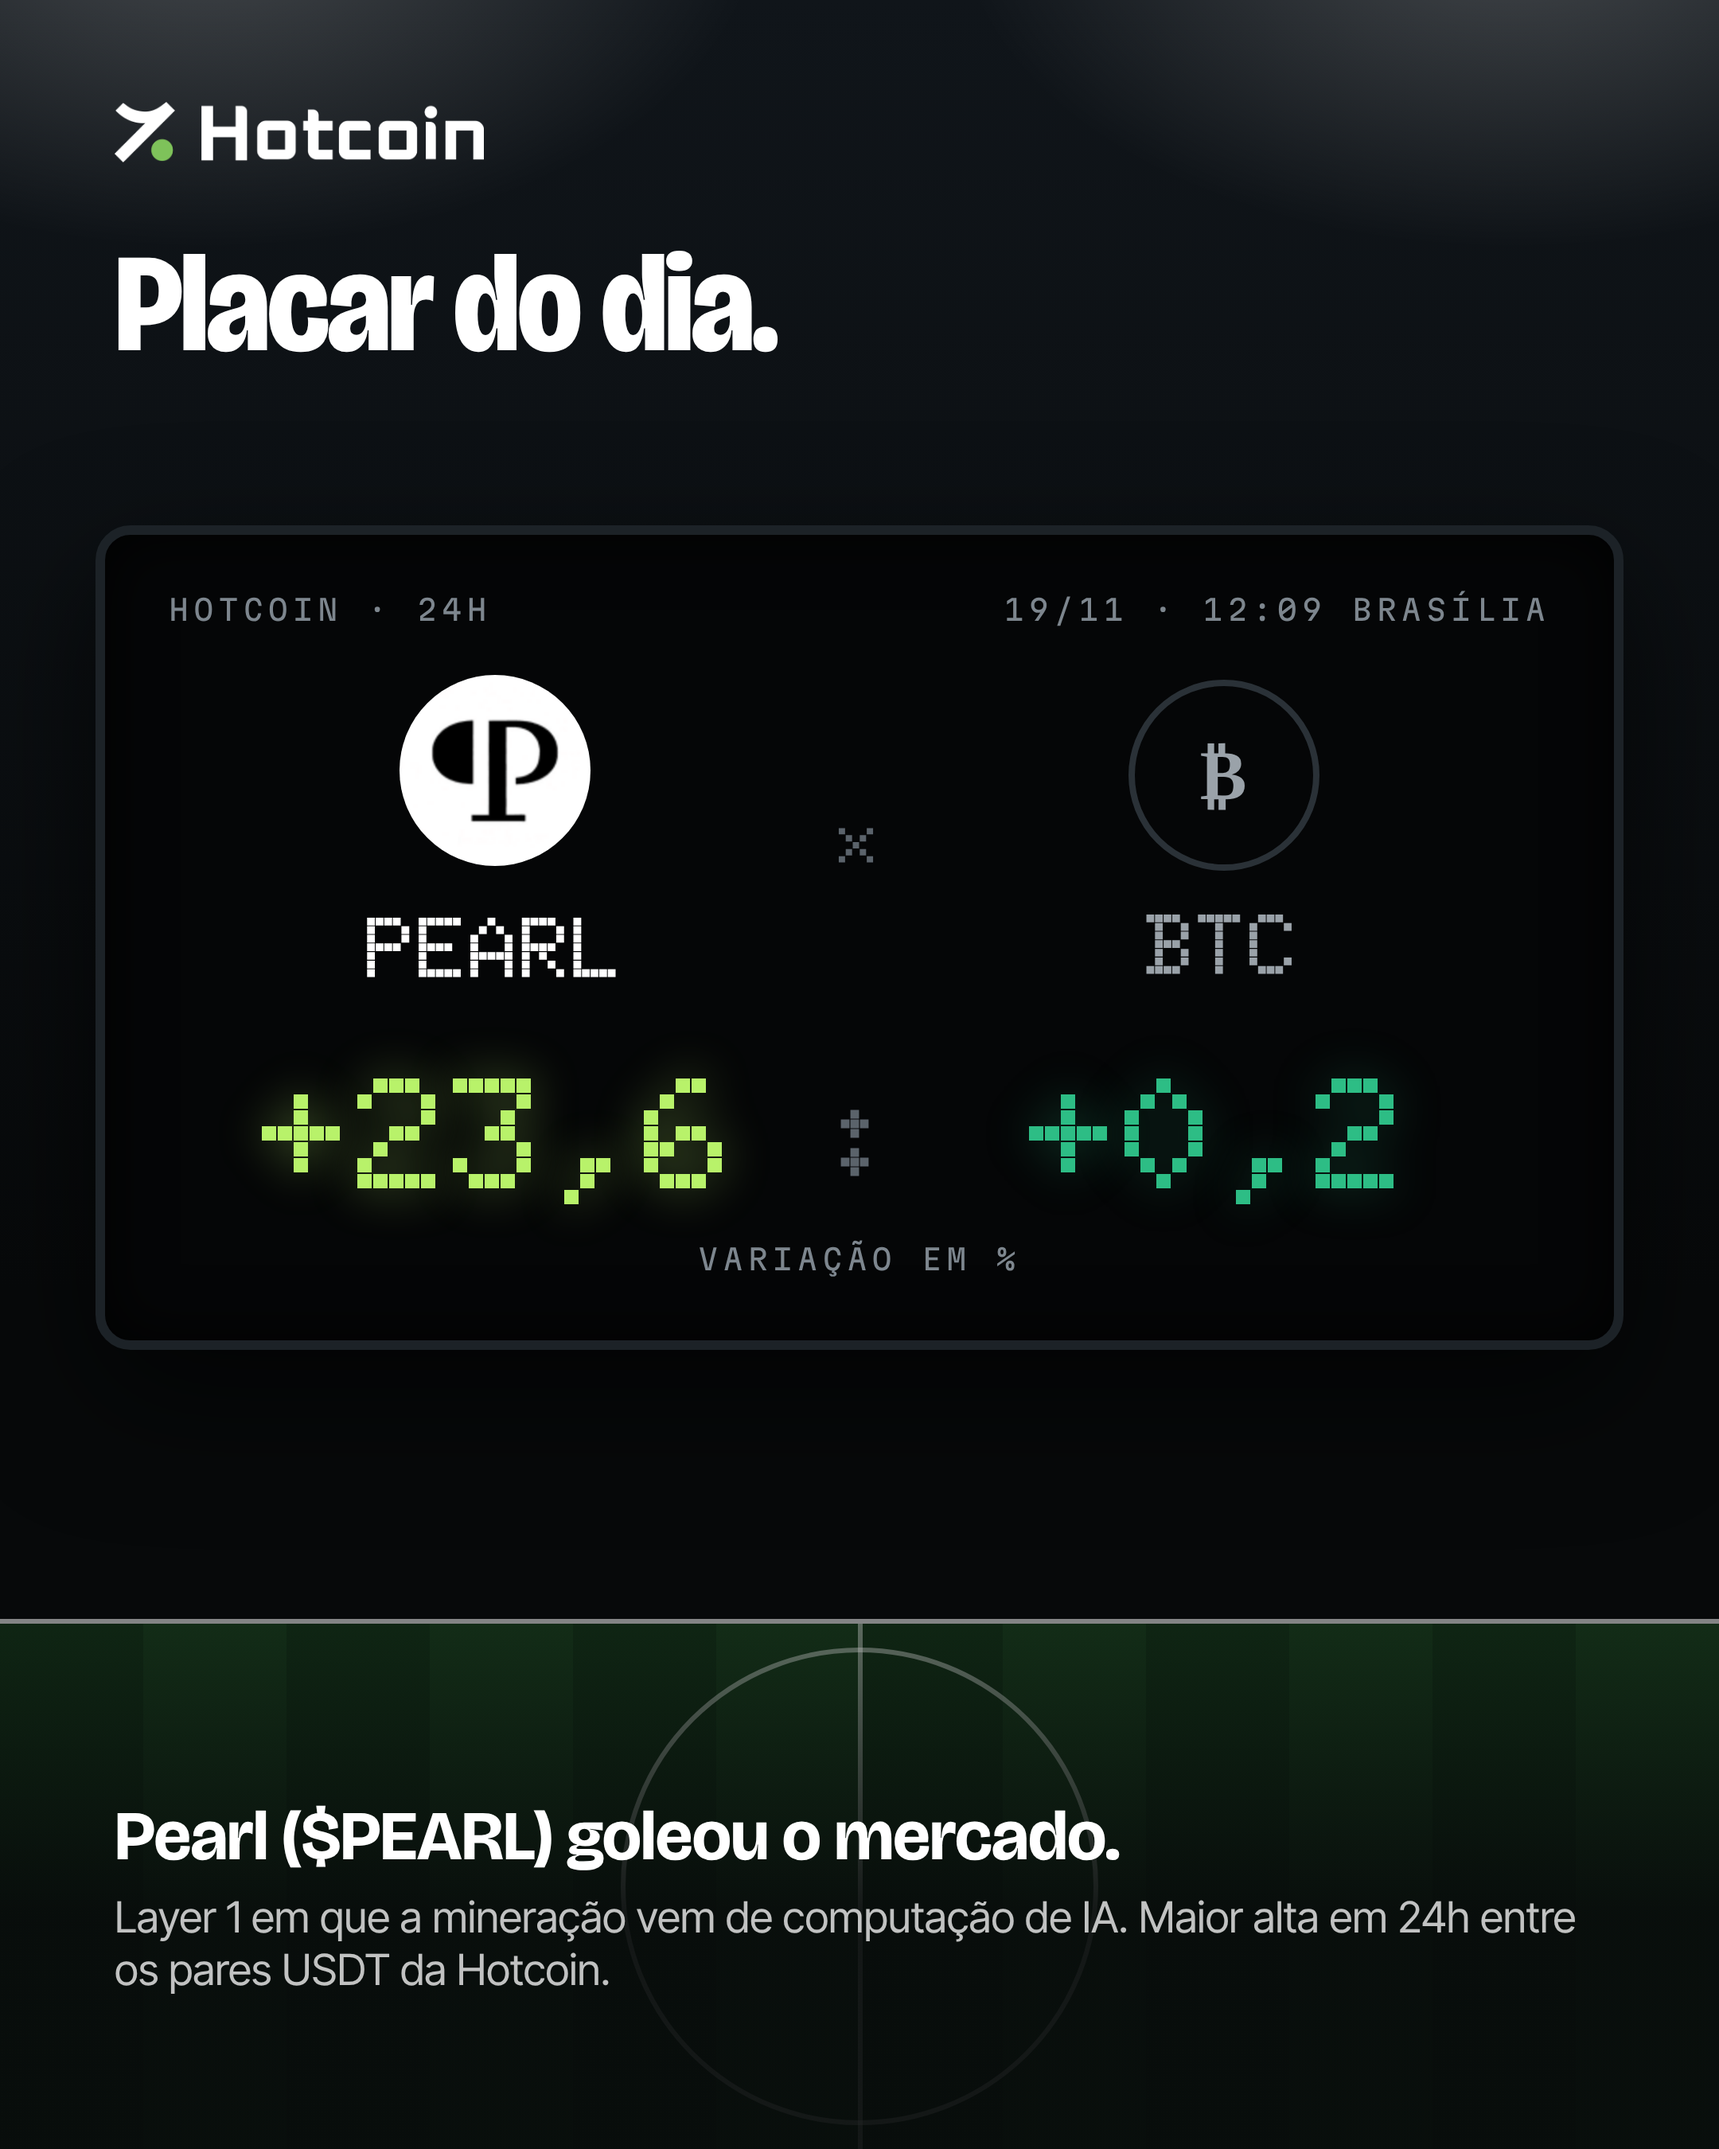
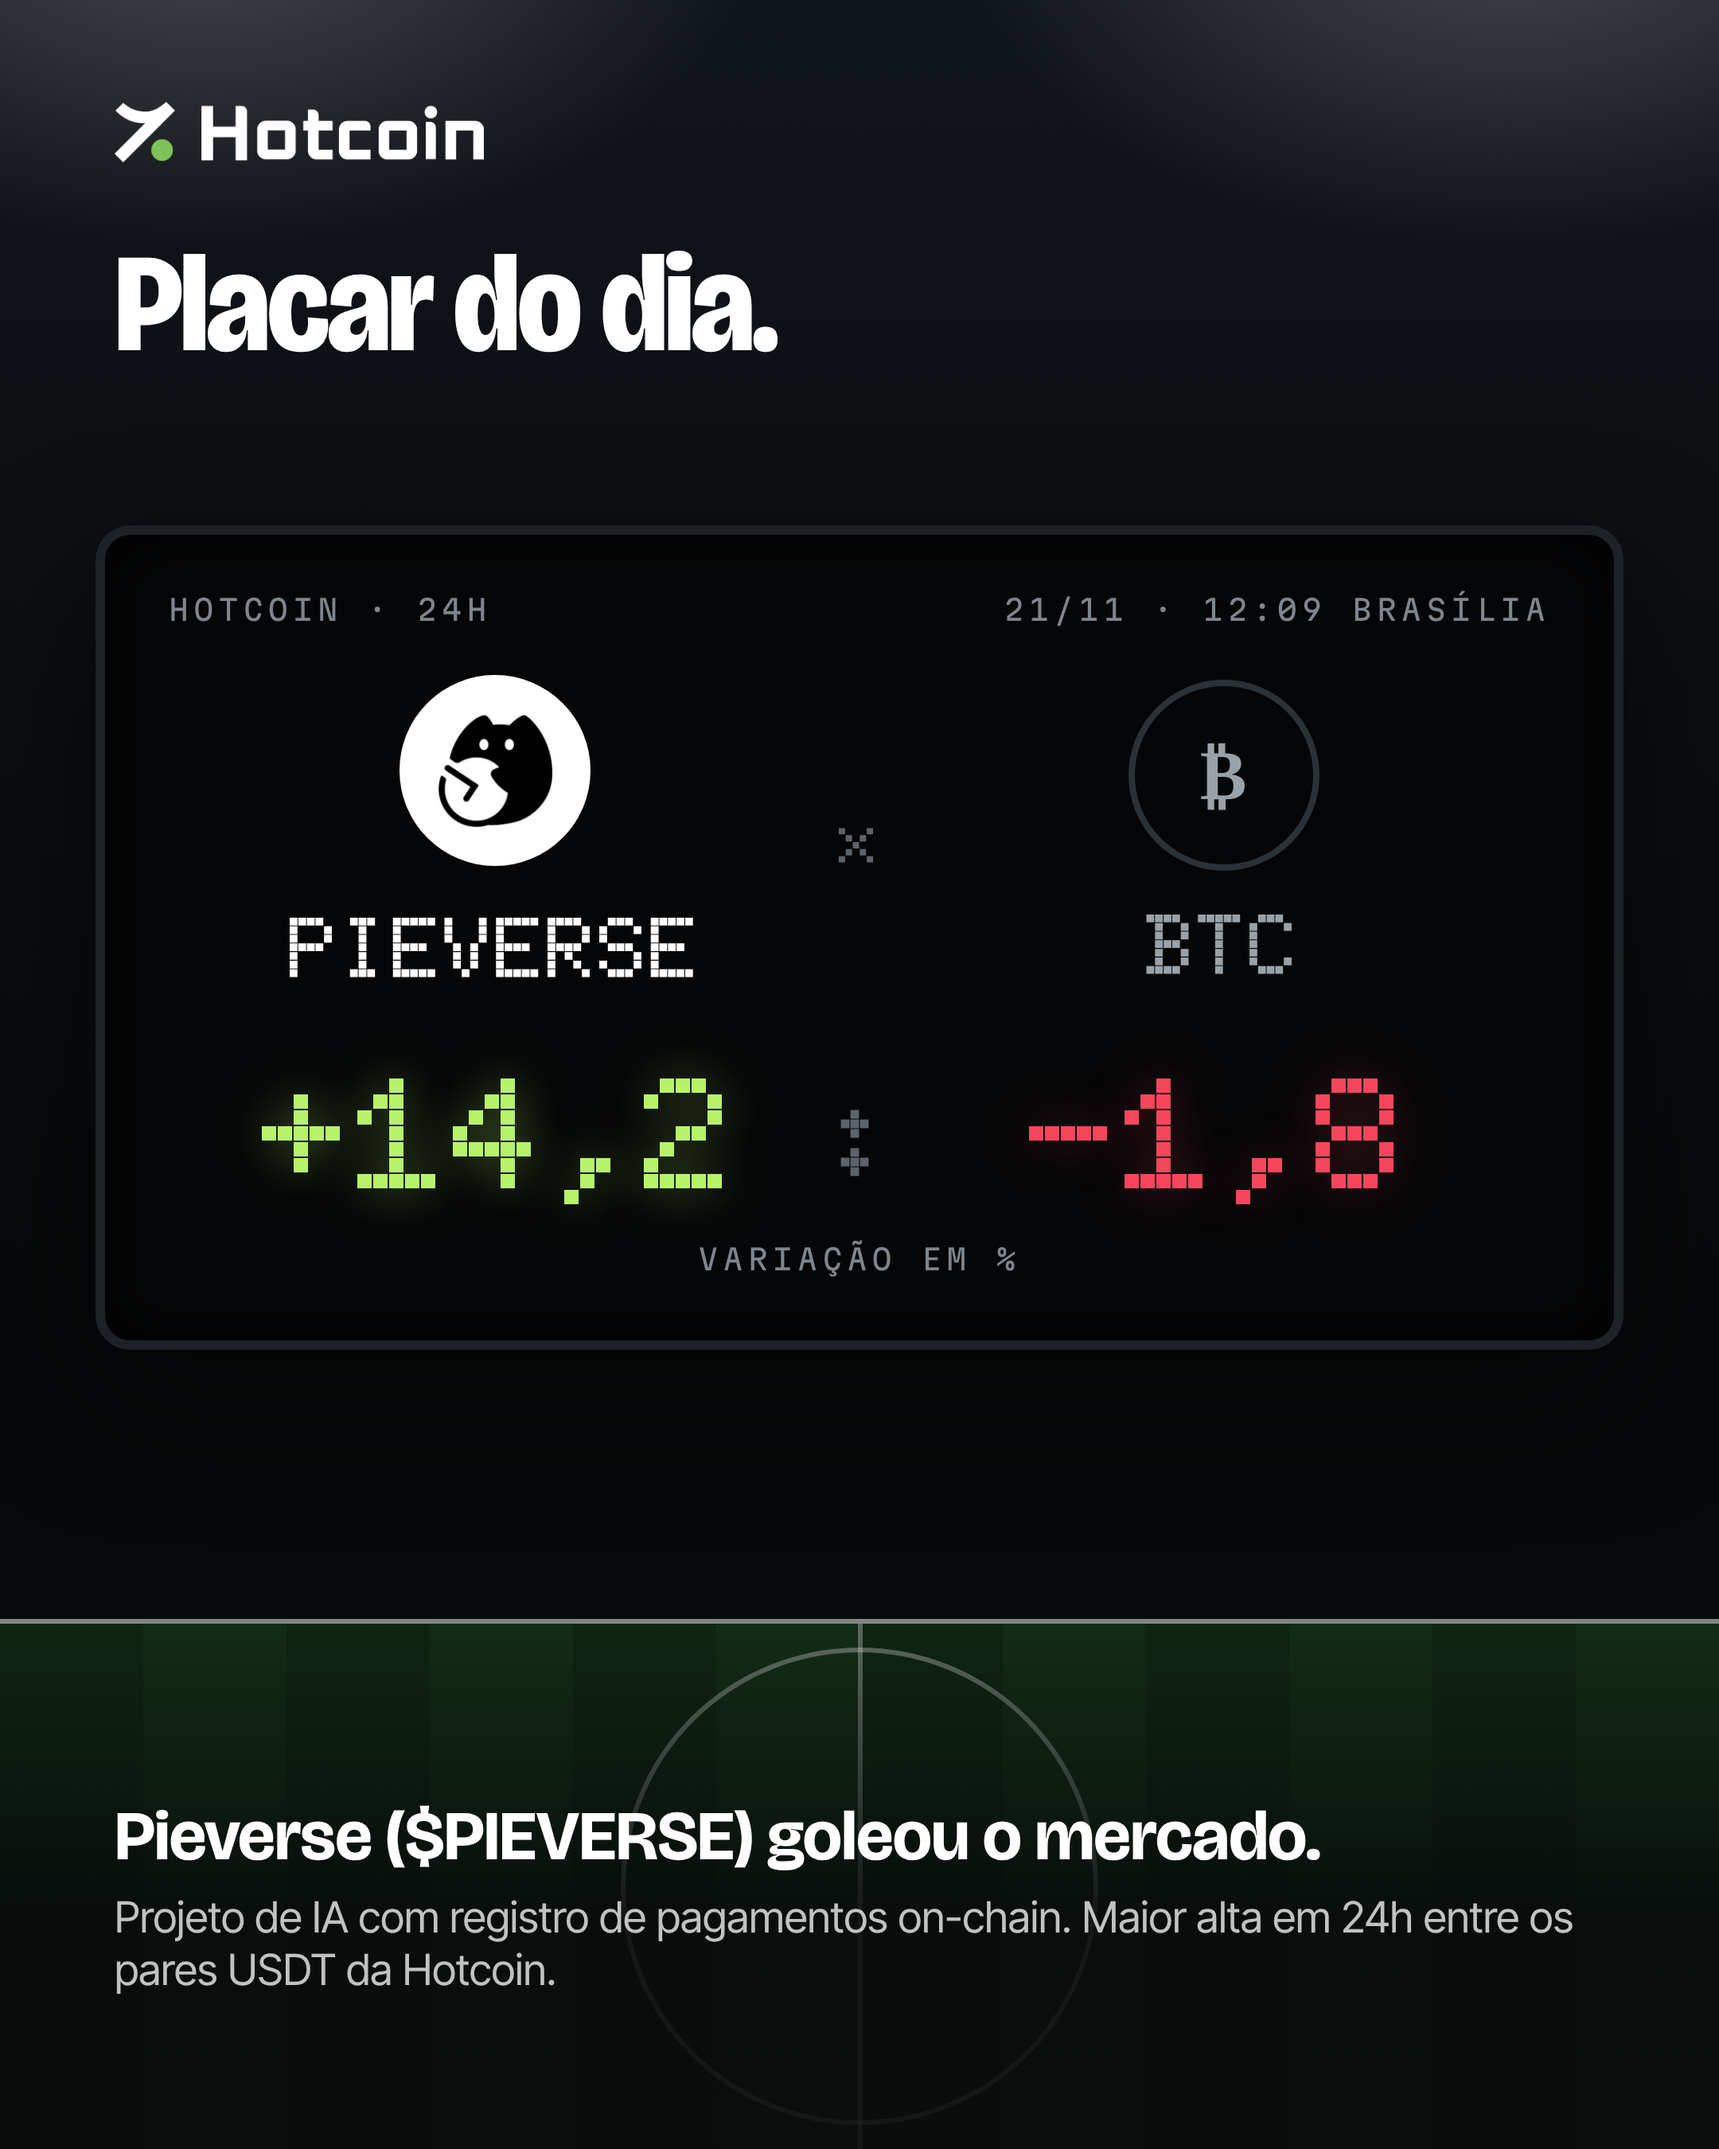
PT 21/11: Placar PIEVERSE, meme This is fine
Claude-Session: https://claude.ai/code/session_013qM1W9H3t8kg1kjsoaDF2S

diff --git a/hotcoin-tradfi/FOOTAGE_CREDITS.md b/hotcoin-tradfi/FOOTAGE_CREDITS.md
@@ -379,3 +379,4 @@ Data: CoinMarketCap (Altcoin Season Index, altcoin market cap, BTC dominance), B
 - PT GM 19/11 (Belo Horizonte, Serra do Curral): Alvaro Guerrero, Unsplash mGUHn-CBB6c, Unsplash License. Mono + grain, lime line traces the ridge.
 - PT meme 19/11 (IPVA): Stefan Szankowski, Unsplash XCUEhjswddI, Unsplash License, anonymous back view, mono.
 - PT GM 20/11 (Ponte Hercílio Luz, Florianópolis): Jucélio Silva, Unsplash ozqrMP0y-zE, Unsplash License. Mono + grain, lime line along the suspension chain.
+- PT meme 21/11: 'This is fine' template (KC Green, via imgflip), real meme template per owner rule 15/11, re-captioned.
